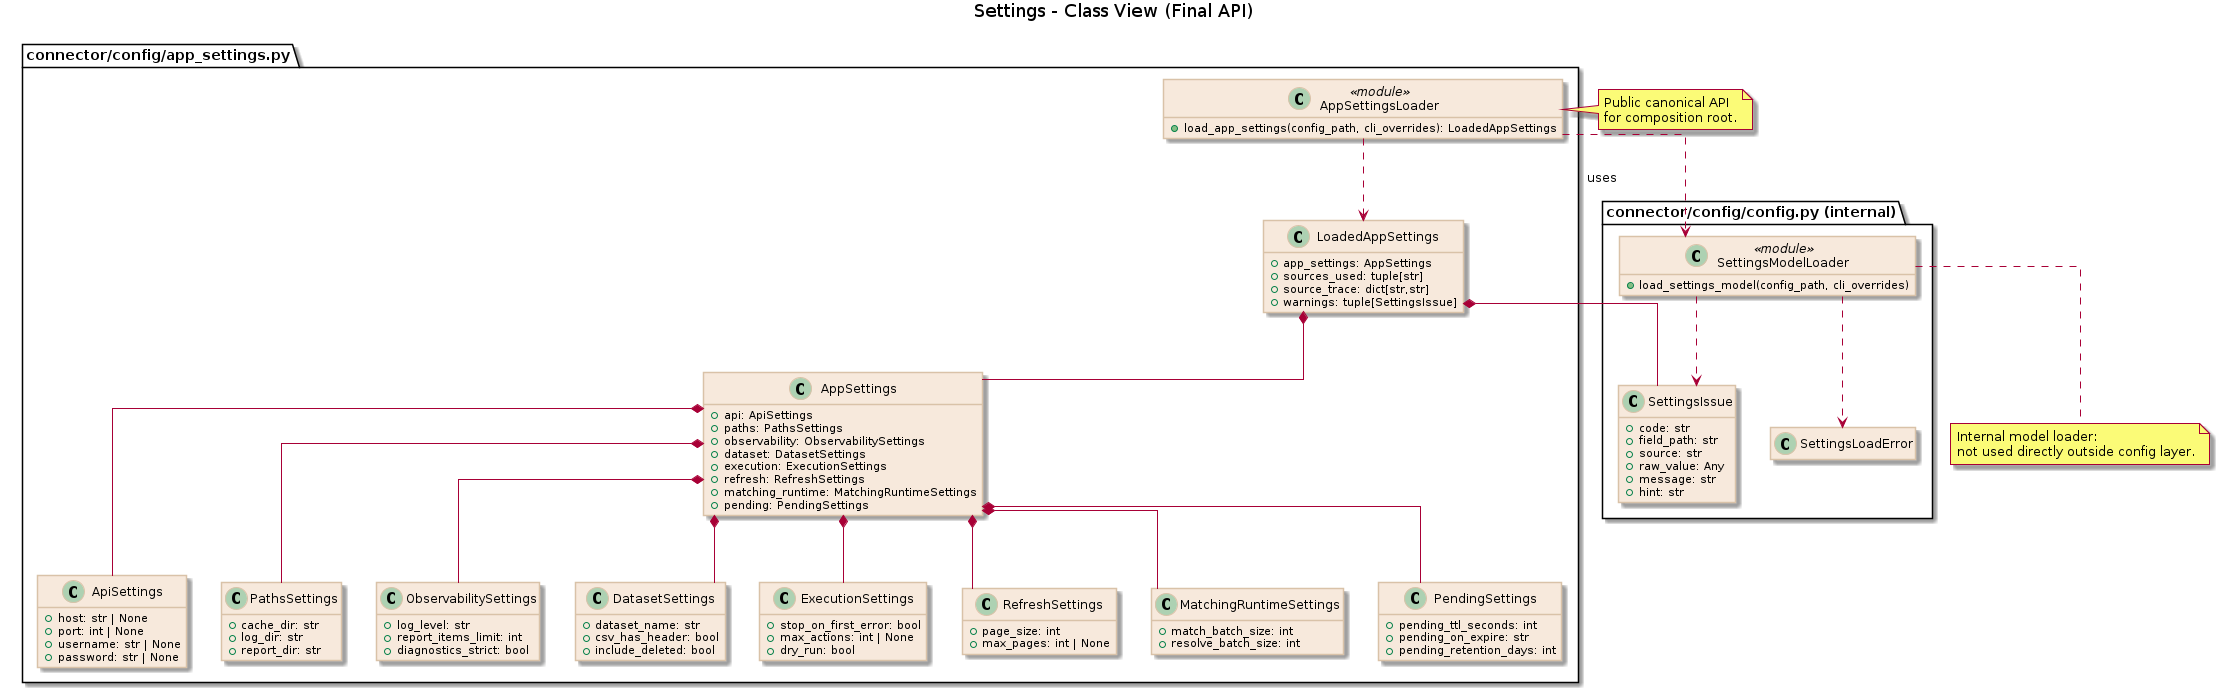
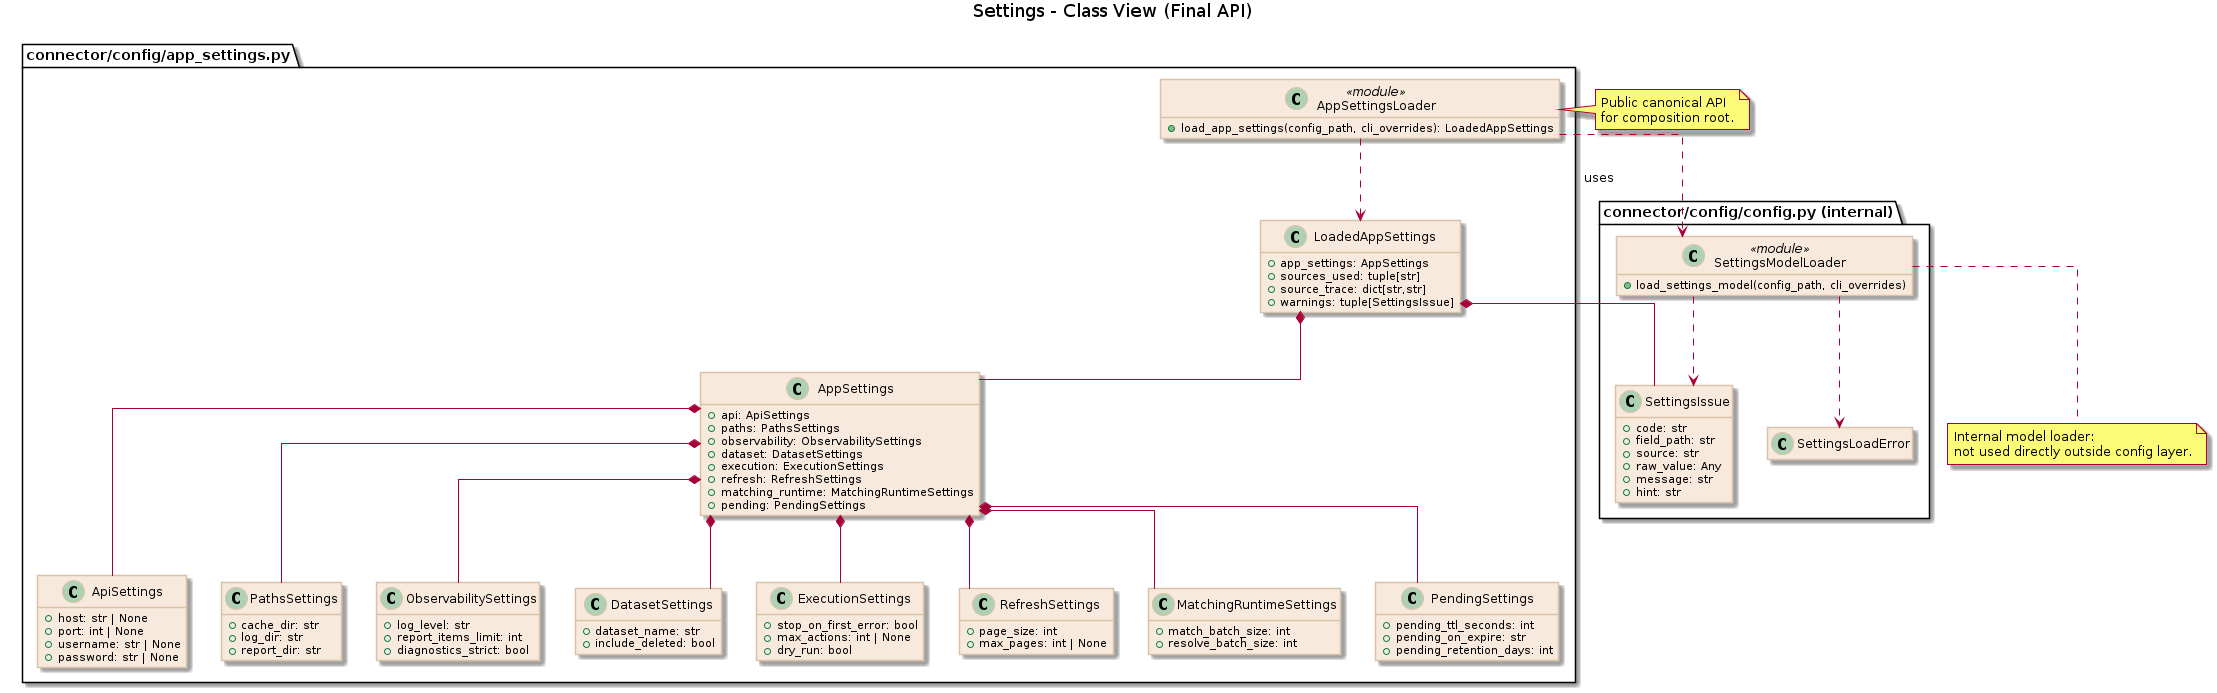
TRANSFORM-DEC-009 Stage 12: sync docs and tests with DSL-owned source header
New additions and changes:
  - Remove obsolete --source-has-header usage from vault wiring integration test.
  - Update ADR examples and contracts to reflect build_record_source() without CLI header override.
  - Align pipeline wiring docs with generic build_spec_for() accessors and current override set.
  - Remove source_has_header from config UML and regenerate settings_class.png.

diff --git a/tests/integration/secrets/test_enrich_command_vault_wiring.py b/tests/integration/secrets/test_enrich_command_vault_wiring.py
@@ -115,7 +115,6 @@ def test_enrich_command_fails_when_vault_mode_off_and_dataset_has_secret_fields(
             "--run-id",
             "vault-off",
             "enrich",
-            "--source-has-header",
             "--vault-mode",
             "off",
         ],

diff --git a/docs/adr/transform/TRANSFORM-DEC-004-modular-pipeline-scoped-execution-context.md b/docs/adr/transform/TRANSFORM-DEC-004-modular-pipeline-scoped-execution-context.md
@@ -706,7 +706,7 @@ for resolved in resolve_stage.run(batch):  # ← StageContract
 
 #### Решение D: Per-command wiring через override context managers
 
-**Проблема**: `PipelineContainer` — субконтейнер `AppContainer`, который создаётся один раз в `run_with_report()` (Composition Root). Но per-command данные (`dataset_spec`, `source_has_header`, `secret_store`, `run_id`) появляются позже — в command handler. Как безопасно передать их в PipelineContainer?
+**Проблема**: `PipelineContainer` — субконтейнер `AppContainer`, который создаётся один раз в `run_with_report()` (Composition Root). Но per-command данные (`dataset_spec`, `catalog`, `secret_store`, `run_id`, а для planning ещё и `include_deleted`) появляются позже — в command handler. Как безопасно передать их в `PipelineContainer`?
 
 **Два варианта:**
 
@@ -722,7 +722,7 @@ for resolved in resolve_stage.run(batch):  # ← StageContract
 pipeline = ctx.container.pipeline
 
 with pipeline.dataset_spec.override(dataset_spec), \
-     pipeline.source_has_header.override(has_header), \
+     pipeline.catalog.override(catalog), \
      pipeline.run_id.override(run_id), \
      pipeline.secret_store.override(secret_store):
 
@@ -745,10 +745,10 @@ with pipeline.dataset_spec.override(dataset_spec), \
 | Provider | Источник | Override в handler? |
 |----------|----------|---------------------|
 | `dataset_spec` | CLI args → `DatasetSpec` | Да — per-command |
-| `source_has_header` | CLI flag | Да — per-command |
+| `catalog` | `build_diagnostics_catalog()` / `ctx.catalog` | Да — per-command |
 | `run_id` | Генерируется в handler | Да — per-command |
 | `secret_store` | Vault rollout result | Да — per-command (может быть None) |
-| `catalog` | `AppContainer` | Нет — приходит из parent container |
+| `include_deleted` | opts / app_settings | Да — только planning |
 | `app_settings` | `AppContainer` | Нет — приходит из parent container |
 | `cache_roles` | `AppContainer` | Нет — приходит из parent container |
 | `stage_factory` | Singleton, статический | Нет — один на всё приложение |
@@ -802,7 +802,6 @@ class PipelineContainer(containers.DeclarativeContainer):
     app_settings    = providers.Dependency(instance_of=AppSettings)
     cache_roles     = providers.Dependency(instance_of=SqliteCacheRolePorts)
     catalog         = providers.Dependency(instance_of=ErrorCatalog)
-    source_has_header  = providers.Dependency(instance_of=bool)
     run_id          = providers.Dependency(instance_of=str)
 
     # Опциональные capabilities (не все команды их передают)
@@ -854,21 +853,21 @@ class PipelineContainer(containers.DeclarativeContainer):
 
     # ── Transform stages (resolver_settings не участвует) ────────────
     row_source = providers.Factory(
-        lambda spec, h: spec.build_record_source(source_has_header=h),
-        spec=dataset_spec, h=source_has_header,
+        lambda spec: spec.build_record_source(),
+        spec=dataset_spec,
     )
     map_stage = providers.Factory(
-        lambda f, spec, ctx, opts: f.create("map", spec.build_map_spec(), ctx, options=opts),
+        lambda f, spec, ctx, opts: f.create("map", spec.build_spec_for("map"), ctx, options=opts),
         f=stage_factory, spec=dataset_spec,
         ctx=transform_context, opts=map_options,
     )
     normalize_stage = providers.Factory(
-        lambda f, spec, ctx, opts: f.create("normalize", spec.build_normalize_spec(), ctx, options=opts),
+        lambda f, spec, ctx, opts: f.create("normalize", spec.build_spec_for("normalize"), ctx, options=opts),
         f=stage_factory, spec=dataset_spec,
         ctx=transform_context, opts=normalize_options,
     )
     enrich_stage = providers.Factory(
-        lambda f, spec, ctx, opts, gw: f.create("enrich", spec.build_enrich_spec(), ctx, options=opts, gateway=gw),
+        lambda f, spec, ctx, opts, gw: f.create("enrich", spec.build_spec_for("enrich"), ctx, options=opts, gateway=gw),
         f=stage_factory, spec=dataset_spec,
         ctx=enrich_context, opts=enrich_options,
         gw=provider_gateway,
@@ -876,12 +875,12 @@ class PipelineContainer(containers.DeclarativeContainer):
 
     # ── Planning stages (resolver_settings резолвится только здесь) ──
     match_stage = providers.Factory(
-        lambda f, spec, ctx, opts: f.create("match", spec.build_match_spec(), ctx, options=opts),
+        lambda f, spec, ctx, opts: f.create("match", spec.build_spec_for("match"), ctx, options=opts),
         f=stage_factory, spec=dataset_spec,
         ctx=planning_context, opts=match_options,
     )
     resolve_stage = providers.Factory(
-        lambda f, spec, ctx, opts: f.create("resolve", spec.build_resolve_spec(), ctx, options=opts),
+        lambda f, spec, ctx, opts: f.create("resolve", spec.build_spec_for("resolve"), ctx, options=opts),
         f=stage_factory, spec=dataset_spec,
         ctx=planning_context, opts=resolve_options,
     )
@@ -1036,10 +1035,10 @@ CLI Command
 
 | Файл | Изменение |
 |------|-----------|
-| `connector/delivery/cli/containers.py` | Создать `PipelineContainer` (DeclarativeContainer): providers `dataset_spec`, `run_id`, `source_has_header`, `secret_store`, `catalog`, `app_settings`, `cache_roles`, `dictionaries`; scoped contexts (`transform_context`, `enrich_context`, `planning_context`); `stage_factory` Singleton; `provider_gateway` Singleton; все 5 stage providers; `transform_pipeline`, `full_pipeline` orchestrators. |
+| `connector/delivery/cli/containers.py` | Создать `PipelineContainer` (DeclarativeContainer): providers `dataset_spec`, `run_id`, `secret_store`, `catalog`, `app_settings`, `cache_roles`, `dictionaries`; scoped contexts (`transform_context`, `enrich_context`, `planning_context`); `stage_factory` Singleton; `provider_gateway` Singleton; все 5 stage providers; `transform_pipeline`, `full_pipeline` orchestrators. |
 | `connector/delivery/cli/containers.py` | `AppContainer`: добавить `pipeline = providers.Container(PipelineContainer, catalog=..., app_settings=..., cache_roles=...)`. |
 | `connector/delivery/cli/containers.py` | `build_pipeline_context()` и `PipelineContext` — добавить deprecation warning (удалить в Этапе 5). |
-| `connector/delivery/commands/normalize.py` | Per-command override context manager: `dataset_spec`, `run_id`, `source_has_header`. Запрашивает только `map_stage()`, `normalize_stage()`. |
+| `connector/delivery/commands/normalize.py` | Per-command override context manager: `dataset_spec`, `run_id`, `catalog`. Запрашивает только `map_stage()`, `normalize_stage()`. |
 | `connector/delivery/commands/enrich.py` | Per-command override. Запрашивает `map_stage()`, `normalize_stage()`, `enrich_stage()`. |
 | `connector/delivery/commands/match.py` | Per-command override включая `secret_store`. Запрашивает `match_stage()`. Один путь для `resolver_settings`. |
 | `connector/delivery/commands/resolve.py` | Per-command override. Запрашивает `resolve_stage()`. |

diff --git a/docs/adr/transform/TRANSFORM-DEC-005-dataset-spec-generic-accessor-evolution.md b/docs/adr/transform/TRANSFORM-DEC-005-dataset-spec-generic-accessor-evolution.md
@@ -38,7 +38,7 @@ class DatasetSpec(Protocol):
     def build_match_spec(self) -> MatchSpec: ...
     def build_resolve_spec(self) -> ResolveSpec: ...
     def build_sink_spec(self) -> SinkSpec: ...
-    def build_record_source(self, source_has_header: bool) -> Iterable[SourceRecord]: ...
+    def build_record_source(self) -> Iterable[SourceRecord]: ...
 ```
 
 `PipelineContainer` обращается к методам напрямую:
@@ -66,7 +66,7 @@ class DatasetSpec(Protocol):
         ...
 
     def build_sink_spec(self) -> SinkSpec: ...
-    def build_record_source(self, source_has_header: bool) -> Iterable[SourceRecord]: ...
+    def build_record_source(self) -> Iterable[SourceRecord]: ...
 ```
 
 `PipelineContainer` использует generic accessor:
@@ -93,7 +93,7 @@ def build_spec_for(self, stage_type: str) -> object:
 
 - Возвращает `object` (тип-erased). Тип-safety на стороне `StageDescriptor.engine_factory` — factory знает ожидаемый тип spec для своего `stage_type`.
 - Бросает `UnsupportedStageError` (не `KeyError`!) если датасет не поддерживает стадию.
-- Не делает I/O — только возвращает конструированный объект-spec из уже загруженной конфигурации.
+- Generic accessor сохраняет единый stage-key контракт; текущая YAML-реализация может загружать stage-конфиг on demand.
 
 ### YAML-driven реализация (целевое состояние)
 
@@ -113,8 +113,9 @@ class YamlDatasetSpec:
     def build_sink_spec(self) -> SinkSpec:
         return SinkSpec.from_config(self._config.sink)
 
-    def build_record_source(self, source_has_header: bool) -> Iterable[SourceRecord]:
-        return CsvRecordSource(self._config.source, source_has_header=source_has_header)
+    def build_record_source(self) -> Iterable[SourceRecord]:
+        source_path = resolve_source_location(self._config.source)
+        return CsvRecordSource(source_path, self._config.source.has_header)
 ```
 
 ---
@@ -157,9 +158,9 @@ class YamlDatasetSpec:
 
 ### Инварианты Phase 2
 
-1. `build_spec_for(stage_type)` **не делает I/O** — только возвращает объект из уже загруженного конфига
+1. `build_spec_for(stage_type)` сохраняет generic stage-key контракт, даже если YAML-реализация загружает stage-конфиг on demand
 2. `UnsupportedStageError` (не `KeyError`) — чёткое сообщение об ошибке для unsupported stage
-3. `build_sink_spec()` и `build_record_source()` остаются typed — они не per-stage, а per-dataset
+3. `build_record_source()` остаётся dataset-level accessor; `source.has_header` читается из source DSL, а не из CLI override
 
 ---
 

diff --git a/docs/adr/transform/TRANSFORM-DEC-003-pipeline-container-lazy-stage-assembly.md b/docs/adr/transform/TRANSFORM-DEC-003-pipeline-container-lazy-stage-assembly.md
@@ -33,7 +33,6 @@ class PipelineContainer(containers.DeclarativeContainer):
     cache_roles     = providers.Dependency(instance_of=SqliteCacheRolePorts)
     dataset_spec    = providers.Dependency(instance_of=DatasetSpec)
     catalog         = providers.Dependency(instance_of=ErrorCatalog)
-    source_has_header  = providers.Dependency(instance_of=bool)
 
     # resolver_settings: только для planning-ветки (match/resolve)
     # Команды без planning не передают это значение → не резолвится
@@ -55,7 +54,7 @@ class PipelineContainer(containers.DeclarativeContainer):
     normalize_stage = providers.Factory(_build_normalize_stage, spec=dataset_spec, catalog=catalog)
     enrich_stage    = providers.Factory(_build_enrich_stage,    spec=dataset_spec,
                                         catalog=catalog, enrich_deps=enrich_deps)
-    row_source      = providers.Factory(_build_row_source, spec=dataset_spec, source_has_header=source_has_header)
+    row_source      = providers.Factory(_build_row_source, spec=dataset_spec)
 
     # ── Planning stages (resolver_settings резолвится только здесь) ───────
     planning_deps = providers.Factory(
@@ -78,7 +77,6 @@ container = PipelineContainer()
 container.cache_roles.override(cache_roles)
 container.dataset_spec.override(dataset_spec)
 container.catalog.override(catalog)
-container.source_has_header.override(source_has_header_value)
 # resolver_settings — НЕ передаётся, НЕ переопределяется
 # planning_deps — никогда не строится
 
@@ -93,7 +91,6 @@ container = PipelineContainer()
 container.cache_roles.override(cache_roles)
 container.dataset_spec.override(dataset_spec)
 container.catalog.override(catalog)
-container.source_has_header.override(source_has_header_value)
 container.resolver_settings.override(app_settings.resolver)  # ОДИН раз, здесь
 
 planning_deps = container.planning_deps()  # resolver_settings резолвится
@@ -140,7 +137,7 @@ resolve    →  resolve_stage → planning_deps → resolver_settings ← ТОЛ
 - ✅ **Один источник правды**: `resolver_settings` в match передаётся ровно один раз, в одном месте — через `container.resolver_settings.override()`
 - ✅ **Explicit dependency graph**: граф зависимостей описан декларативно, не разбросан по command handlers
 - ✅ **Open/closed для capabilities**: новая capability — новый провайдер в контейнере; остальные команды не меняются
-- ✅ **Testability**: тест normalize overrides только `dataset_spec`, `catalog`, `source_has_header` — без `cache_roles`, `resolver_settings`, `planning_deps`
+- ✅ **Testability**: тест normalize overrides только `dataset_spec`, `catalog` — без `cache_roles`, `resolver_settings`, `planning_deps`
 - ✅ **Natural slot для TransformContext**: когда trigger-критерии TRANSFORM-DEC-002 будут достигнуты, `enrich_deps` провайдер меняет `TransformProviderDeps(...)` на `TransformContext.build(...)` — остальной граф не меняется
 
 **Недостатки (компромиссы)**:

diff --git a/docs/adr/transform/TRANSFORM-DEC-009-declarative-dataset-spec-yaml-driven-plugins.md b/docs/adr/transform/TRANSFORM-DEC-009-declarative-dataset-spec-yaml-driven-plugins.md
@@ -92,7 +92,7 @@ class DatasetSpec(Protocol):
     dataset_name: str
 
     def build_spec_for(self, stage_type: str) -> object: ...
-    def build_record_source(self, source_has_header: bool) -> Iterable[SourceRecord]: ...
+    def build_record_source(self) -> Iterable[SourceRecord]: ...
     def get_report_adapter(self) -> ReportAdapter: ...
     def get_apply_adapter(self) -> ApplyAdapterProtocol: ...
     def get_diagnostic_catalog(self, strict: bool) -> ErrorCatalog: ...

diff --git a/docs/adr/transform/TRANSFORM-PROBLEM-005-dataset-spec-ocp-violation.md b/docs/adr/transform/TRANSFORM-PROBLEM-005-dataset-spec-ocp-violation.md
@@ -20,7 +20,7 @@ class DatasetSpec(Protocol):
     def build_match_spec(self) -> MatchSpec: ...
     def build_resolve_spec(self) -> ResolveSpec: ...
     def build_sink_spec(self) -> SinkSpec: ...
-    def build_record_source(self, source_has_header: bool) -> Iterable[SourceRecord]: ...
+    def build_record_source(self) -> Iterable[SourceRecord]: ...
 ```
 
 При добавлении новой стадии этот набор методов должен расти — что нарушает Open/Closed Principle на уровне протокола.

diff --git a/docs/adr/transform/TRANSFORM-DEC-006-pipeline-segments-in-container.md b/docs/adr/transform/TRANSFORM-DEC-006-pipeline-segments-in-container.md
@@ -256,7 +256,6 @@ import_plan command
 |----------|------------|---------|
 | `dataset_spec` | ✅ | `build_dataset_spec()` |
 | `run_id` | ✅ | `ctx.run_id` |
-| `source_has_header` | ✅ | opts / app_settings |
 | `catalog` | ✅ | `build_diagnostics_catalog()` |
 | `include_deleted` | ✅ | opts / app_settings |
 | `secret_store` | по условию | vault write service, если vault enabled |